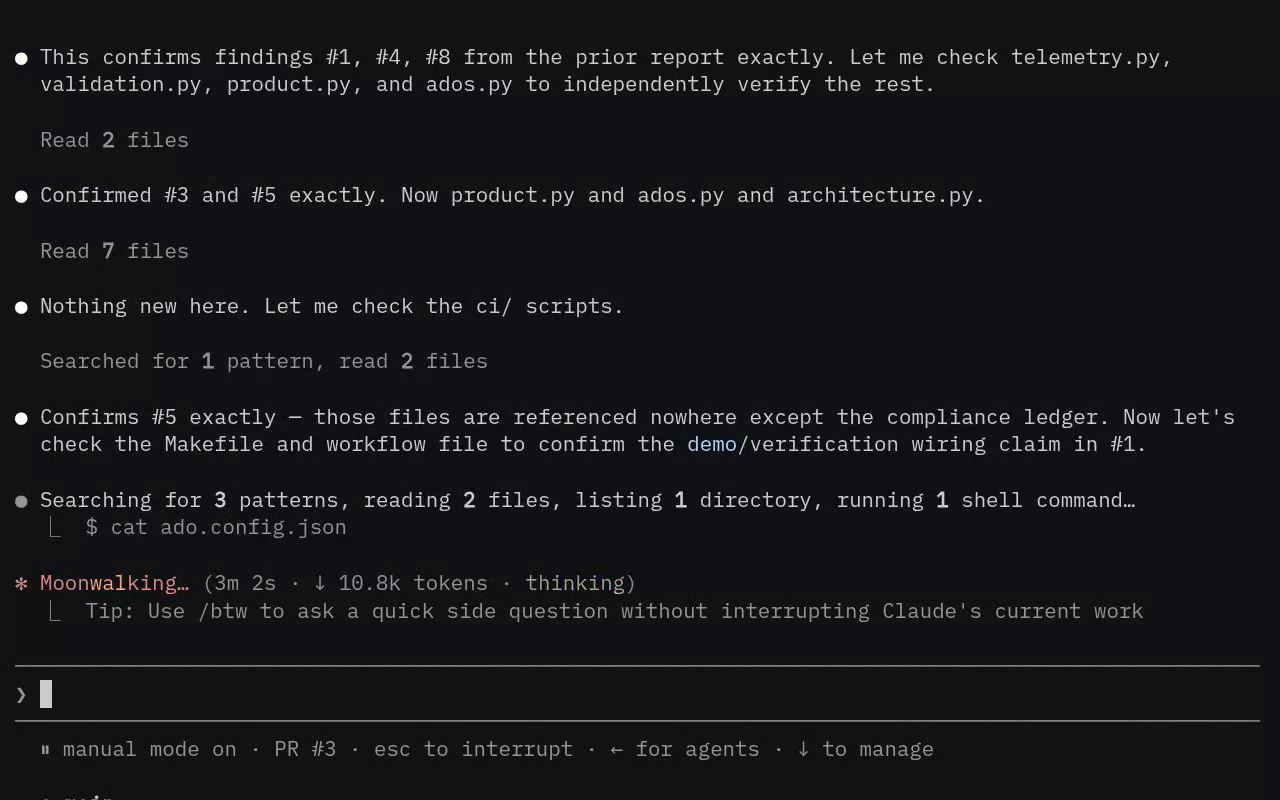
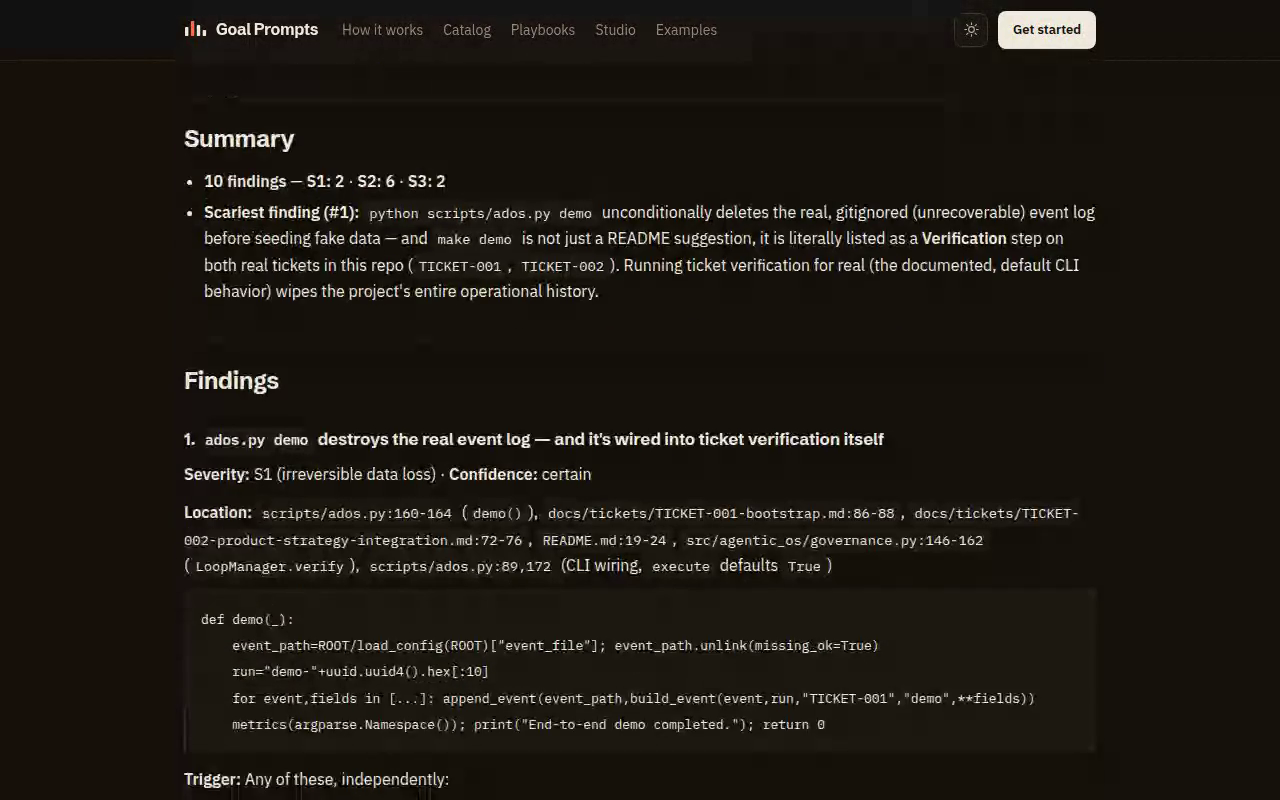
Clip v2: show the payoff — the run, then the readable filed report
The first cut was the whole session at one speed: a terminal blur with no
visible value. Re-cut as two real scenes: the session condensed to ~8s
(sped up ~40x, ending held on the agent's summary), then the actual
/r/ado-bugs page the run relates to — summary counts and finding #1 with
severity, file:line, and the code excerpt, held long enough to read. The
poster is now the report moment, so even the static frame communicates
the deliverable. Both scenes are unmodified captures of real artifacts;
caption updated to say exactly that.

Claude-Session: https://claude.ai/code/session_0111v6caE1q54csVDme5ARz2

diff --git a/changelog.html b/changelog.html
@@ -282,7 +282,7 @@ footer.foot{padding:var(--s7) 0 var(--s9);color:var(--dim)}
 </defs></svg>
 <header class="nav"><div class="nav-in wrap"><a class="brand" href="/"><svg class="mark" width="24" height="24" viewBox="0 0 24 24" aria-hidden="true"><rect x="1" y="9" width="3.4" height="9" rx="0.8" fill="currentColor"/><rect x="6.9" y="3" width="3.4" height="15" rx="0.8" fill="var(--fc,#C8451F)"/><rect x="12.8" y="7" width="3.4" height="11" rx="0.8" fill="currentColor"/><rect x="18.7" y="12" width="3.4" height="6" rx="0.8" fill="currentColor"/></svg>Goal Prompts</a><nav class="nav-links"><a href="/#how">How it works</a><a href="/#catalog">Catalog</a><a href="/#playbooks">Playbooks</a><a href="/studio">Studio</a><a href="/examples/">Examples</a></nav><div class="nav-right"><button class="themetog" id="themetog" type="button" aria-label="Toggle light or dark theme"><svg class="ic sun"><use href="#i-sun"></use></svg><svg class="ic moon"><use href="#i-moon"></use></svg></button><a class="nav-cta" href="/#start">Get started</a></div></div></header>
 <section class="dhero"><div class="wrap"><div class="crumb"><a href="/">Home</a><span class="sep">/</span><span>Changelog</span></div><h1 style="margin-top:14px">Changelog</h1><p class="lede">What changed, release by release — latest: <span class="mono">0.18.0 — 2026-07-12</span>. Installed the plugin, the slash commands, or the MCP server? They pin the catalog they shipped with; update any time to pick up new briefs.</p><div class="cta"><a class="btn btn-primary" href="/#start">Install / update</a><a class="btn btn-ghost" href="https://github.com/GhostlyGawd/goal-prompts/blob/main/CHANGELOG.md">Raw CHANGELOG.md ↗</a></div></div></section><section class="blk"><div class="wrap"><div class="kicker mono">release</div><h2 class="h2">0.18.0 — 2026-07-12</h2><div class="prose" style="margin-top:12px"><ul><li><strong>The product, seen working (SHOWCASE F1, CREDIBILITY 1):</strong> the landing</li></ul>
-<p>Proof section now opens with a real recorded session — <code>01 · Bug Hunt</code> pasted into Claude Code inside <strong>agentic-dev-os</strong>, a repo this catalog was not tuned on — shown end to end and independently re-verifying all 10 findings of the filed BUGS.md. Real session sped up ~21×, output unedited, and the label saying so is baked into the frames (<code>img/run-bug-hunt.mp4</code> + poster). The session ran under a read-only permission gate; its only write was the report.</p>
+<p>Proof section now opens with a real recorded session — <code>01 · Bug Hunt</code> pasted into Claude Code inside <strong>agentic-dev-os</strong>, a repo this catalog was not tuned on — in two real scenes: the session (sped up ~40×, label baked into the frames, output unedited), then the report it filed, readable — summary counts, finding #1 with severity, file:line, and the code. The session ran under a read-only permission gate; its only write was the report.</p>
 <ul><li><strong>External dogfood (VERDICT act 3):</strong> the Day-1 briefs, run unattended by</li></ul>
 <p>coding agents against agentic-dev-os. Three reports committed unedited under <code>examples/agentic-dev-os/</code> and rendered at <code>/r/ado-*</code> like every other report; the examples gallery gains a "Day-1, on a repo that isn't this one" section. The security audit (06) ran too and is deliberately unpublished until its top finding is fixed — the withholding is stated on the gallery, because the evidence rules apply to the marketing as much as the briefs.</p></div></div></section><section class="blk"><div class="wrap"><div class="kicker mono">release</div><h2 class="h2">0.17.0 — 2026-07-12</h2><div class="prose" style="margin-top:12px"><ul><li><strong>Loop-first positioning pass</strong> — the site now leads with the strategy the</li></ul>
 <p>venture reports chose (POSITIONING.md Option A "own the audit loop"; COMPETITIVE §10 bet 1 "lead with the loop, not the catalog size"):</p>

diff --git a/index.html b/index.html
@@ -679,7 +679,7 @@
   <!-- SHOWCASE F1: the product, seen working — a real recorded session, not a mock -->
   <figure class="shotfig">
     <video class="shot" src="/img/run-bug-hunt.mp4" poster="/img/run-bug-hunt.png" width="1280" height="800" controls muted playsinline loop preload="metadata"></video>
-    <figcaption>Recorded, not staged: <a href="/b/01">01 · Bug Hunt</a> pasted into Claude Code inside <b>agentic-dev-os</b> — a repo this catalog was not tuned on. This session independently re-verified all 10 findings of the filed <a href="/r/ado-bugs">BUGS.md</a>, line by line. Real session sped up ~21×; output unedited.</figcaption>
+    <figcaption>Recorded, not staged: <a href="/b/01">01 · Bug Hunt</a> runs in Claude Code inside <b>agentic-dev-os</b> — a repo this catalog was not tuned on — then the report it filed: 10 findings, each with severity, file:line, and a fix sketch. Session sped up ~40×; both artifacts real (<a href="/r/ado-bugs">read the report →</a>).</figcaption>
   </figure>
   <div class="pipe">
     <div class="pnode n1"><div class="dot">1</div><h3>Brief</h3><p>Paste an audit brief into your agent inside the repo you want checked.</p></div>

diff --git a/sw.js b/sw.js
@@ -4,7 +4,7 @@
  * cached when not); static assets are cache-first. Version is a content
  * hash, so a deploy makes a new cache and the old one is purged. */
 "use strict";
-var CACHE = "goal-prompts-51e4a4102cd4";
+var CACHE = "goal-prompts-221f0f5835d1";
 var PRECACHE = ["/", "/studio", "/vitals", "/examples/", "/manifest.json", "/tokens.css", "/bodies.json", "/js/catalog-core.js", "/js/report-parser.js", "/js/gp-detail.js", "/fonts/schibstedgrotesk-latin-var.woff2", "/fonts/plexsans-latin-400.woff2", "/fonts/plexsans-latin-600.woff2", "/fonts/plexmono-latin-400.woff2", "/fonts/plexmono-latin-600.woff2", "/icons/icon-192.png", "/icons/icon-512.png"];
 self.addEventListener("install", function (e) {
   e.waitUntil(caches.open(CACHE).then(function (c) {

diff --git a/template.html b/template.html
@@ -679,7 +679,7 @@
   <!-- SHOWCASE F1: the product, seen working — a real recorded session, not a mock -->
   <figure class="shotfig">
     <video class="shot" src="/img/run-bug-hunt.mp4" poster="/img/run-bug-hunt.png" width="1280" height="800" controls muted playsinline loop preload="metadata"></video>
-    <figcaption>Recorded, not staged: <a href="/b/01">01 · Bug Hunt</a> pasted into Claude Code inside <b>agentic-dev-os</b> — a repo this catalog was not tuned on. This session independently re-verified all 10 findings of the filed <a href="/r/ado-bugs">BUGS.md</a>, line by line. Real session sped up ~21×; output unedited.</figcaption>
+    <figcaption>Recorded, not staged: <a href="/b/01">01 · Bug Hunt</a> runs in Claude Code inside <b>agentic-dev-os</b> — a repo this catalog was not tuned on — then the report it filed: 10 findings, each with severity, file:line, and a fix sketch. Session sped up ~40×; both artifacts real (<a href="/r/ado-bugs">read the report →</a>).</figcaption>
   </figure>
   <div class="pipe">
     <div class="pnode n1"><div class="dot">1</div><h3>Brief</h3><p>Paste an audit brief into your agent inside the repo you want checked.</p></div>

diff --git a/CHANGELOG.md b/CHANGELOG.md
@@ -4,11 +4,11 @@
 - **The product, seen working (SHOWCASE F1, CREDIBILITY 1):** the landing
   Proof section now opens with a real recorded session — `01 · Bug Hunt`
   pasted into Claude Code inside **agentic-dev-os**, a repo this catalog was
-  not tuned on — shown end to end and independently re-verifying all 10
-  findings of the filed BUGS.md. Real session sped up ~21×, output
-  unedited, and the label saying so is baked into the frames
-  (`img/run-bug-hunt.mp4` + poster). The session ran under a read-only
-  permission gate; its only write was the report.
+  not tuned on — in two real scenes: the session (sped up ~40×, label baked
+  into the frames, output unedited), then the report it filed, readable —
+  summary counts, finding #1 with severity, file:line, and the code. The
+  session ran under a read-only permission gate; its only write was the
+  report.
 - **External dogfood (VERDICT act 3):** the Day-1 briefs, run unattended by
   coding agents against agentic-dev-os. Three reports committed unedited
   under `examples/agentic-dev-os/` and rendered at `/r/ado-*` like every